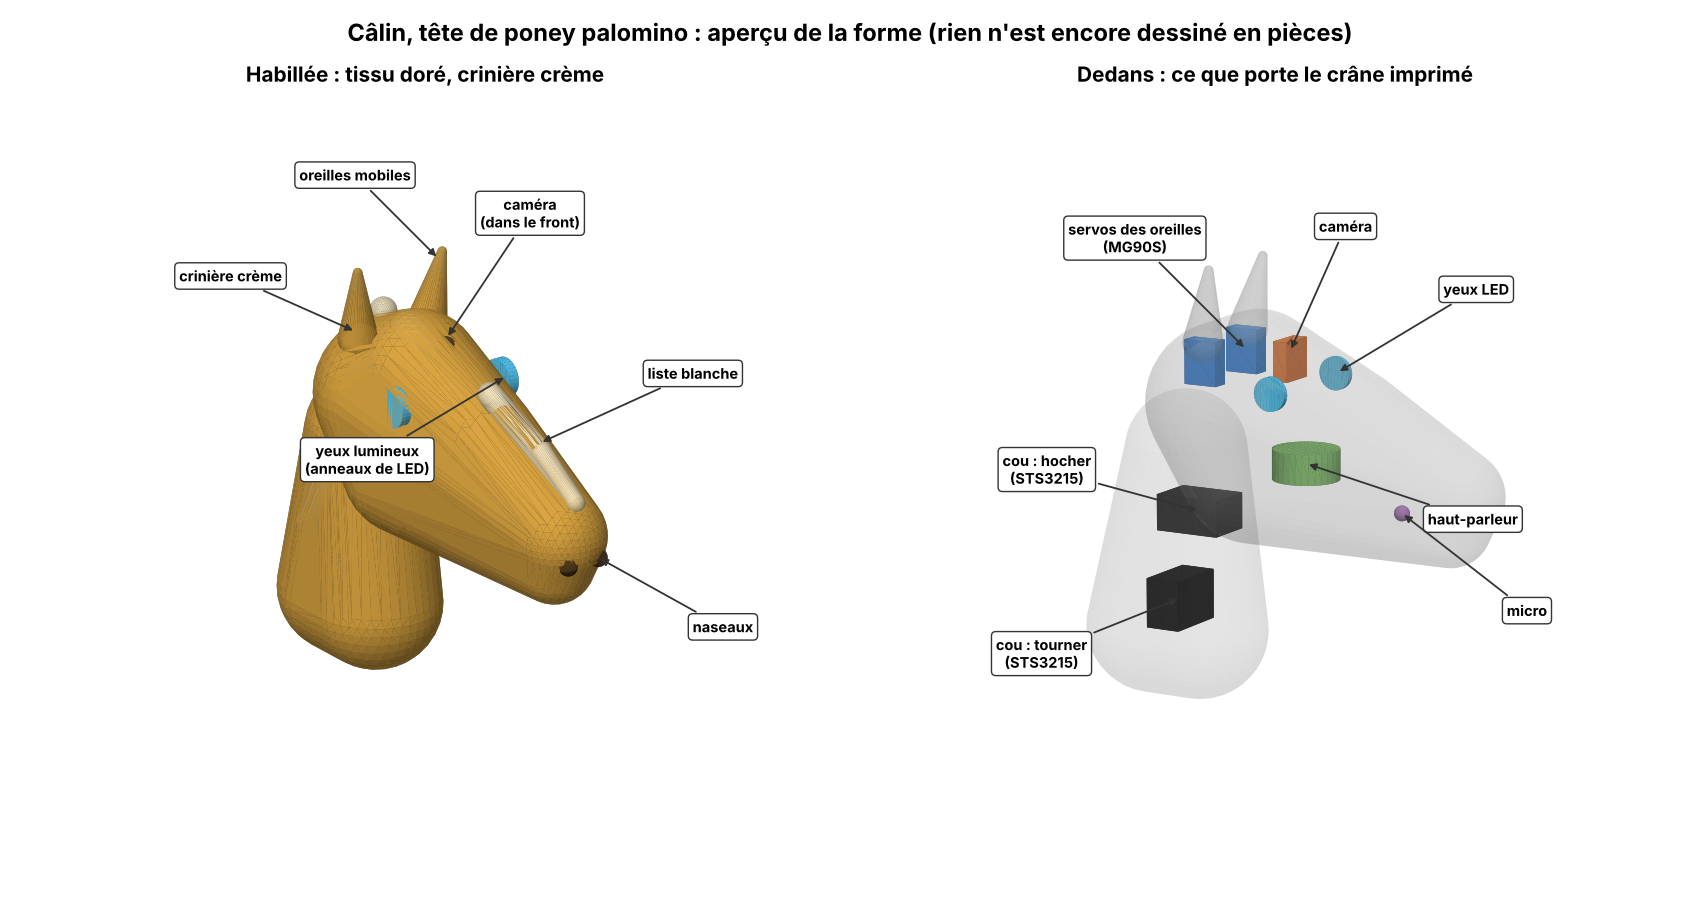
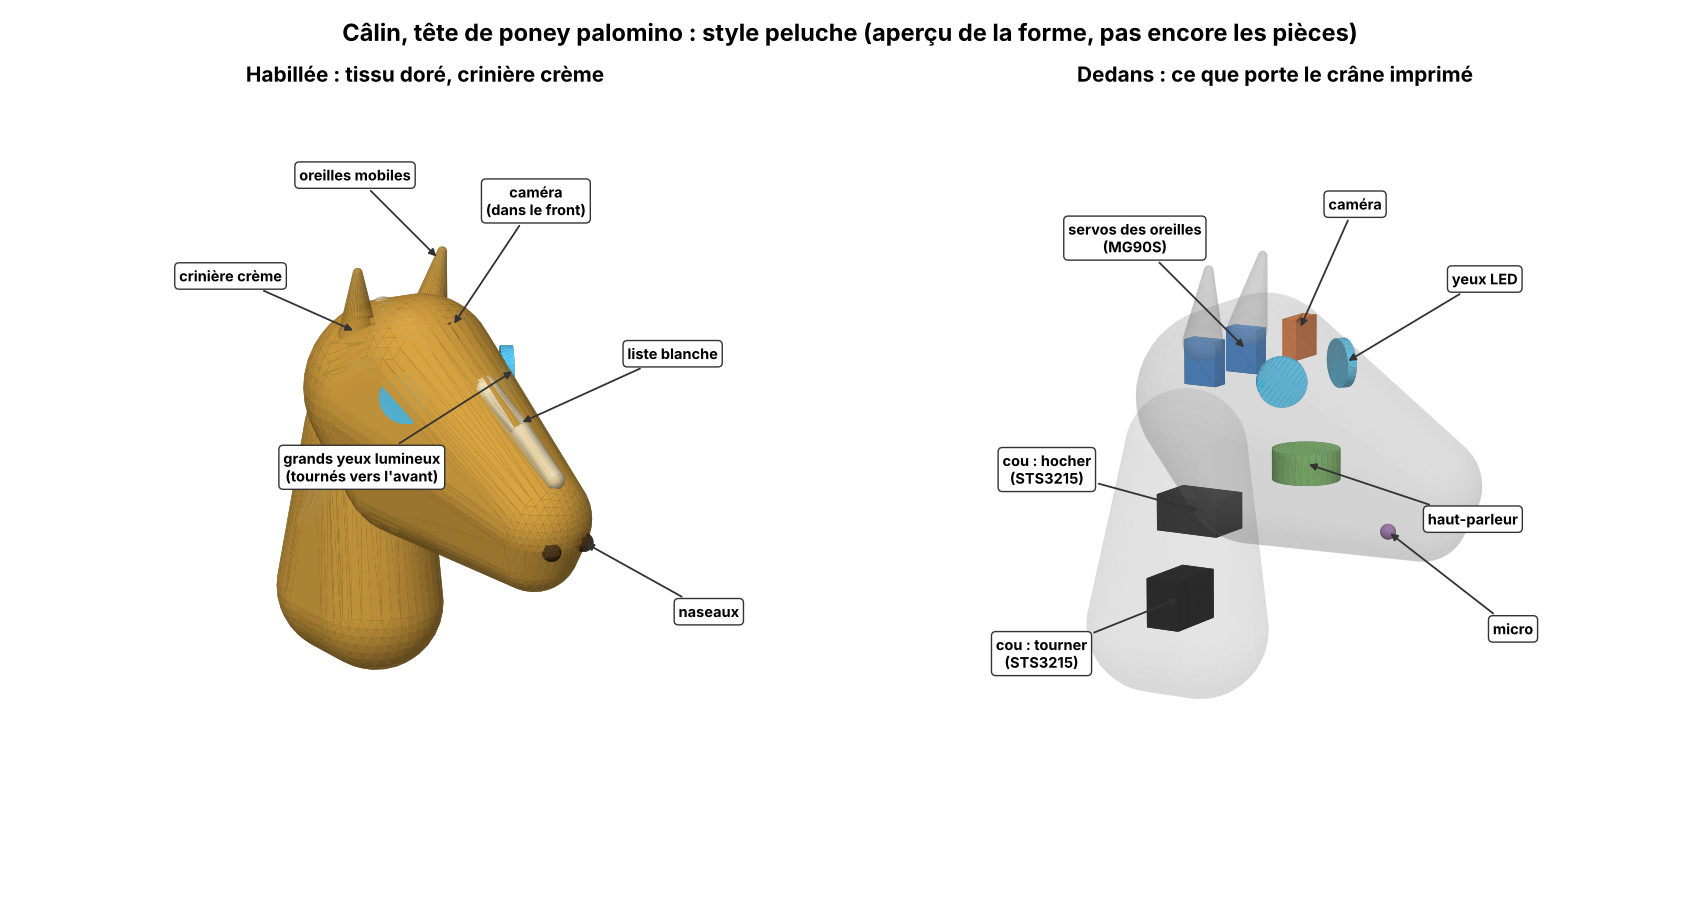
Tête de poney : style peluche, yeux tournés vers l'avant, matériel envisagé
Claude-Session: https://claude.ai/code/session_011MQ11mbotgHHLgV4h86EGU

diff --git a/tete-poney/apercu_tete_poney.py b/tete-poney/apercu_tete_poney.py
@@ -24,9 +24,9 @@ def mesh(m):
     g = m.to_mesh(); return tm.Trimesh(np.asarray(g.vert_properties)[:, :3], np.asarray(g.tri_verts))
 
 # --- forme de la tête (≈ 23 cm du chignon au bout du nez), un peu inclinée nez vers le bas ---
-CRANE = [(0, 0, 75, 52), (25, 0, 95, 42)]                 # front et chignon
-CHANFREIN = [(95, 0, 70, 34), (125, 0, 52, 33)]           # le long du nez
-BOUT_NEZ = [(170, 0, 30, 30), (165, 0, 10, 26)]           # bout du nez, menton
+CRANE = [(0, 0, 78, 58), (30, 0, 100, 48)]                # front bombé (style peluche)
+CHANFREIN = [(90, 0, 72, 36), (115, 0, 55, 35)]           # nez plus court
+BOUT_NEZ = [(150, 0, 35, 33), (145, 0, 15, 29)]           # bout du nez rond, menton
 GANACHE = [(20, 0, 30, 46)]                               # joues (ganaches)
 tete = coque(*[boule(*b) for b in CRANE + CHANFREIN + BOUT_NEZ + GANACHE])
 def oreille(s, angle_av=15):
@@ -36,8 +36,9 @@ def oreille(s, angle_av=15):
 OREILLES = [oreille(1), oreille(-1)]
 COU = coque(boule(-30, 0, 40, 40), boule(-55, 0, -80, 45), boule(-20, 0, -80, 45))
 CRINIERE = coque(*[boule(-10 - 12 * k, 0, 128 - 25 * k, 9) for k in range(8)]) + coque(boule(15, 0, 125, 10), boule(40, 0, 118, 6))   # crinière + toupet
-OEIL_POS = [(58, s * 44, 92) for s in (1, -1)]
-NASEAUX = [boule(193, s * 12, 20, 6) for s in (1, -1)]
+OEIL_POS = [(66, s * 41, 100) for s in (1, -1)]           # yeux grands, tournés de 35° vers l'avant
+AXE_OEIL = {s: np.array([math.sin(math.radians(35)), s * math.cos(math.radians(35)), 0]) for s in (1, -1)}
+NASEAUX = [boule(178, s * 13, 25, 6) for s in (1, -1)]
 
 PALOMINO, CREME, SOMBRE = '#d9a441', '#f3e6c4', '#3a2a1a'
 def dessiner(ax, pieces, vue=(12, -60), titre=''):
@@ -59,22 +60,22 @@ def etiq(ax, xyz, txt, d):
                 bbox=dict(boxstyle='round,pad=0.3', fc='white', ec='#333'), arrowprops=dict(arrowstyle='-|>', color='#333', lw=1.3), zorder=50)
 
 fig = plt.figure(figsize=(17, 9)); fig.patch.set_facecolor('white')
-fig.suptitle('Câlin, tête de poney palomino : aperçu de la forme (rien n\'est encore dessiné en pièces)', fontsize=17, weight='bold')
+fig.suptitle('Câlin, tête de poney palomino : style peluche (aperçu de la forme, pas encore les pièces)', fontsize=17, weight='bold')
 
 # 1. habillée
 ax = fig.add_subplot(1, 2, 1, projection='3d')
-anneaux = [cyl((x, y - 4 * np.sign(y), z), (x, y + 3 * np.sign(y), z), 13) for x, y, z in OEIL_POS]
+anneaux = [cyl(np.array(p) - 4 * AXE_OEIL[int(np.sign(p[1]))], np.array(p) + 4 * AXE_OEIL[int(np.sign(p[1]))], 16) for p in OEIL_POS]
 pieces = [(tete, PALOMINO, 1), (COU, PALOMINO, 1), (CRINIERE, CREME, 1)] + [(o, PALOMINO, 1) for o in OREILLES]
 pieces += [(a, '#5ad1ff', 1) for a in anneaux] + [(n, SOMBRE, 1) for n in NASEAUX]
-pieces += [(coque(boule(100, 0, 103, 8), boule(150, 0, 81, 7), boule(185, 0, 57, 6)), CREME, 1)]          # liste blanche sur le chanfrein
-pieces += [(boule(56, 0, 124, 6), '#222', 1)]                                        # caméra discrète dans le front
+pieces += [(coque(boule(95, 0, 106, 8), boule(130, 0, 88, 7), boule(165, 0, 66, 6)), CREME, 1)]          # liste blanche sur le chanfrein
+pieces += [(boule(62, 0, 134, 6), '#222', 1)]                                        # caméra discrète dans le front
 dessiner(ax, pieces, vue=(22, -38), titre='Habillée : tissu doré, crinière crème')
-etiq(ax, (58, 47, 92), 'yeux lumineux\n(anneaux de LED)', (-100, -60))
-etiq(ax, (56, 0, 128), 'caméra\n(dans le front)', (60, 90))
+etiq(ax, (69, 45, 100), 'grands yeux lumineux\n(tournés vers l\'avant)', (-110, -70))
+etiq(ax, (62, 0, 138), 'caméra\n(dans le front)', (60, 90))
 etiq(ax, (4, 34, 160), 'oreilles mobiles', (-60, 60))
-etiq(ax, (150, 0, 86), 'liste blanche', (110, 50))
+etiq(ax, (130, 0, 93), 'liste blanche', (110, 50))
 etiq(ax, (-40, 0, 105), 'crinière crème', (-90, 40))
-etiq(ax, (193, 12, 20), 'naseaux', (90, -50))
+etiq(ax, (178, 13, 25), 'naseaux', (90, -50))
 
 # 2. dedans
 ax = fig.add_subplot(1, 2, 2, projection='3d')
@@ -82,18 +83,18 @@ pieces = [(tete, '#cfcfcf', 0.18), (COU, '#cfcfcf', 0.12)] + [(o, '#cfcfcf', 0.2
 pieces += [(boite((-35, 0, -60), (24, 45, 33)), '#222', 1)]                          # servo du cou : tourner (axe vertical)
 pieces += [(boite((-20, 0, 0), (45, 33, 24)), '#333', 1)]                            # servo du cou : hocher (axe gauche-droite)
 pieces += [(boite((0, s * 26, 105), (23, 12, 29)), '#3f86d6', 1) for s in (1, -1)]  # 2 MG90S des oreilles
-pieces += [(boite((48, 0, 107), (10, 26, 26)), '#e2783a', 1)]                        # caméra
-pieces += [(cyl((x, y - 4 * np.sign(y), z), (x, y, z), 11), '#5ad1ff', 1) for x, y, z in OEIL_POS]
+pieces += [(boite((55, 0, 122), (10, 26, 26)), '#e2783a', 1)]                        # caméra
+pieces += [(cyl(np.array(p) - 6 * AXE_OEIL[int(np.sign(p[1]))], np.array(p), 16), '#5ad1ff', 1) for p in OEIL_POS]
 pieces += [(cyl((60, 0, 30), (60, 0, 50), 22), '#7fbf6a', 1)]                         # haut-parleur (sous la tête, vers le bas)
-pieces += [(boule(130, 0, 15, 5), '#b57cc4', 1)]                                      # micro
+pieces += [(boule(120, 0, 2, 5), '#b57cc4', 1)]                                      # micro
 dessiner(ax, pieces, titre='Dedans : ce que porte le crâne imprimé')
 etiq(ax, (-35, 0, -60), 'cou : tourner\n(STS3215)', (-100, -40))
 etiq(ax, (-20, 0, 0), 'cou : hocher\n(STS3215)', (-110, 30))
 etiq(ax, (0, 26, 105), 'servos des oreilles\n(MG90S)', (-80, 80))
-etiq(ax, (48, 0, 112), 'caméra', (40, 90))
-etiq(ax, (58, 44, 92), 'yeux LED', (100, 60))
+etiq(ax, (55, 0, 127), 'caméra', (40, 90))
+etiq(ax, (66, 41, 100), 'yeux LED', (100, 60))
 etiq(ax, (60, 0, 40), 'haut-parleur', (120, -40))
-etiq(ax, (130, 0, 15), 'micro', (90, -70))
+etiq(ax, (120, 0, 2), 'micro', (90, -70))
 fig.subplots_adjust(left=0, right=1, top=0.9, bottom=0, wspace=0)
 fig.savefig(OUT / 'apercu_tete_poney.png', dpi=100)
 print('ok')

diff --git a/tete-poney/LISEZ-MOI.md b/tete-poney/LISEZ-MOI.md
@@ -16,6 +16,22 @@ rien n'est encore dessiné en pièces.**
 - **Cou** : les 2 STS3215 de rechange (tourner, hocher) ; tête de 400 à 500 g.
 - Plus tard, en option : mâchoire qui s'ouvre un peu quand il parle (un petit servo de plus).
 
+## Choix du 16/11/2026 (Nicolas : « fais comme tu le sens »)
+- **Style peluche** plutôt que réaliste : front bombé, nez plus court et rond. Plus rassurant pour les enfants, plus
+  facile à habiller, et la tête est plus compacte (moins lourde au bout du cou).
+- **Grands yeux tournés de 35° vers l'avant** (au lieu des côtés comme un vrai poney) : Câlin a l'air de regarder
+  la personne en face.
+
+## Matériel envisagé (à confirmer avec ce que Nicolas a déjà)
+| Quoi | Proposition | Pourquoi |
+|---|---|---|
+| Caméra | la webcam USB déjà utilisée par `tete/` (caméra 1), sortie de son boîtier si possible | logiciel déjà réglé ; à mesurer |
+| Yeux | 2 anneaux de LED adressables WS2812B, 12 ou 16 LED (Ø ext. 37 ou 44 mm), derrière un dôme imprimé en blanc translucide | couleurs et animations par programme |
+| Oreilles | 2 MG90S (du premier projet de main) | légers, assez forts pour des oreilles creuses |
+| Pilotage yeux + oreilles | l'ESP32 déjà en stock, relié au PC en USB | le PC reste le cerveau (vision, voix, IA) |
+| Haut-parleur, micro | pour commencer, ceux déjà branchés au PC ; plus tard un haut-parleur 40 mm 3 W + petit ampli, et un micro USB dans la tête | rien à acheter tout de suite |
+| Cou | les 2 STS3215 de rechange (n° 7 tourner, n° 8 hocher, sur le bus des servos) | même carte, mêmes sécurités |
+
 ## Ce que le cou permettra
 Tourner la tête vers la personne qui parle ou un visage reconnu, faire oui / non, regarder l'objet que le bras va saisir.
 
